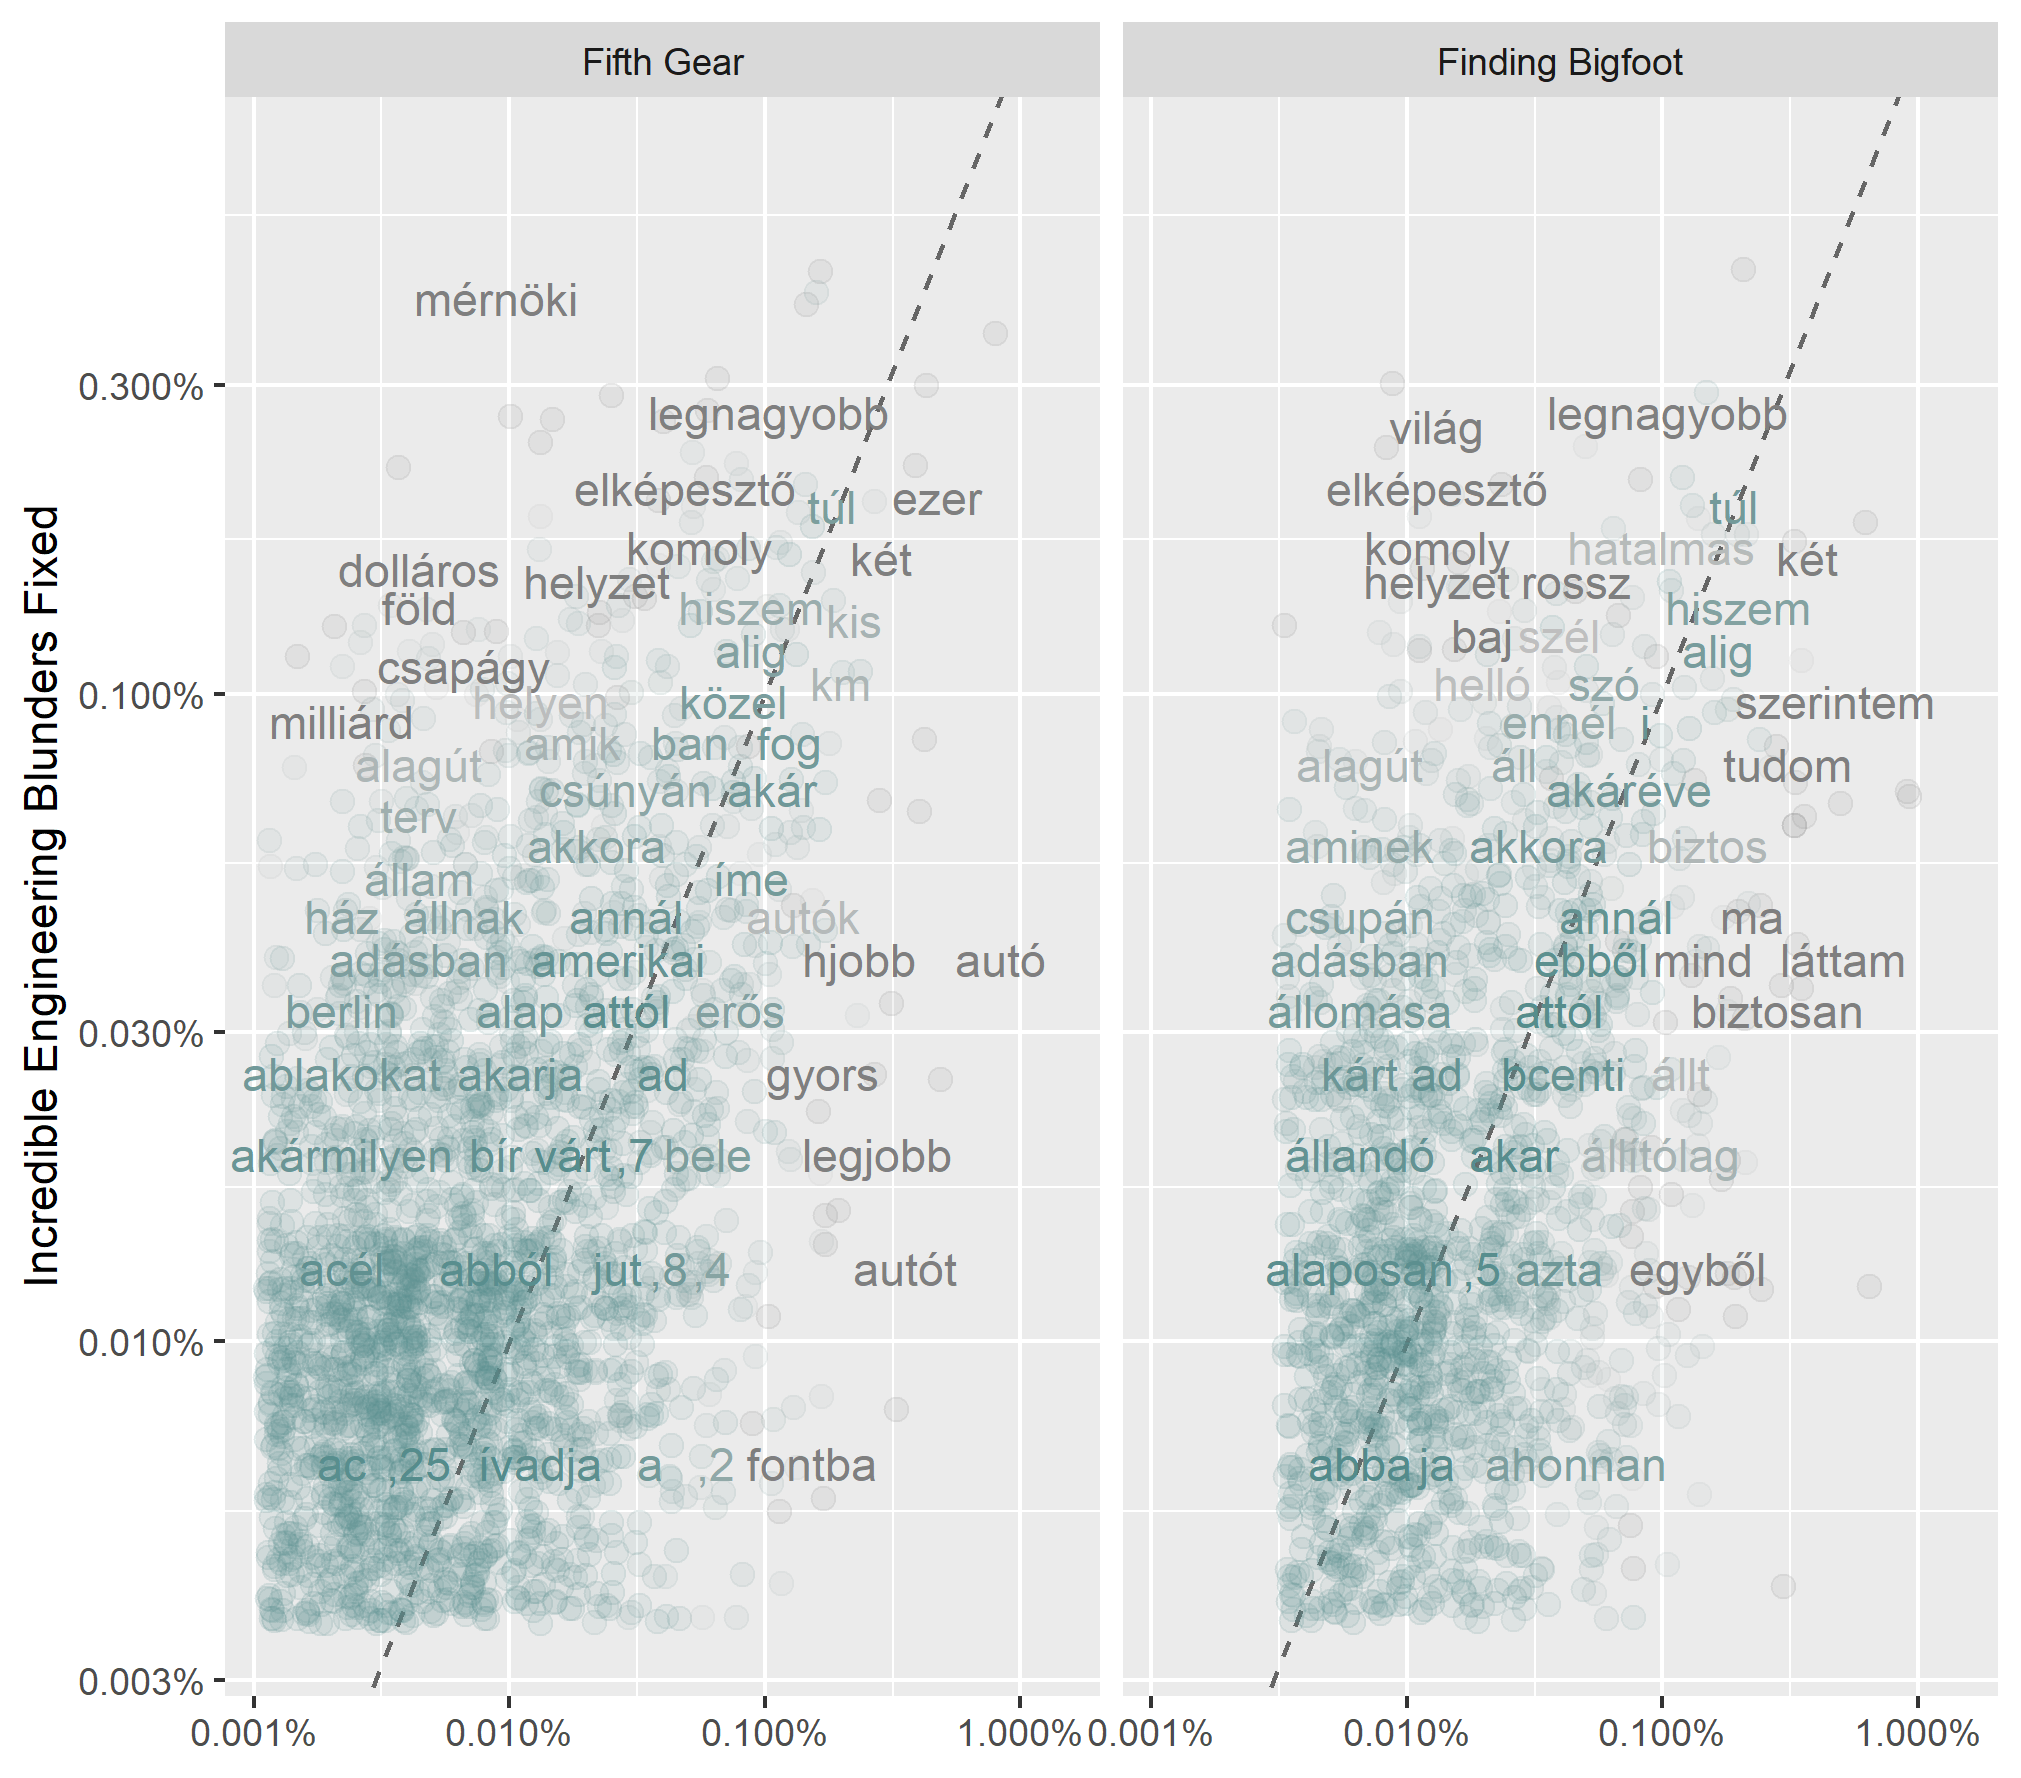
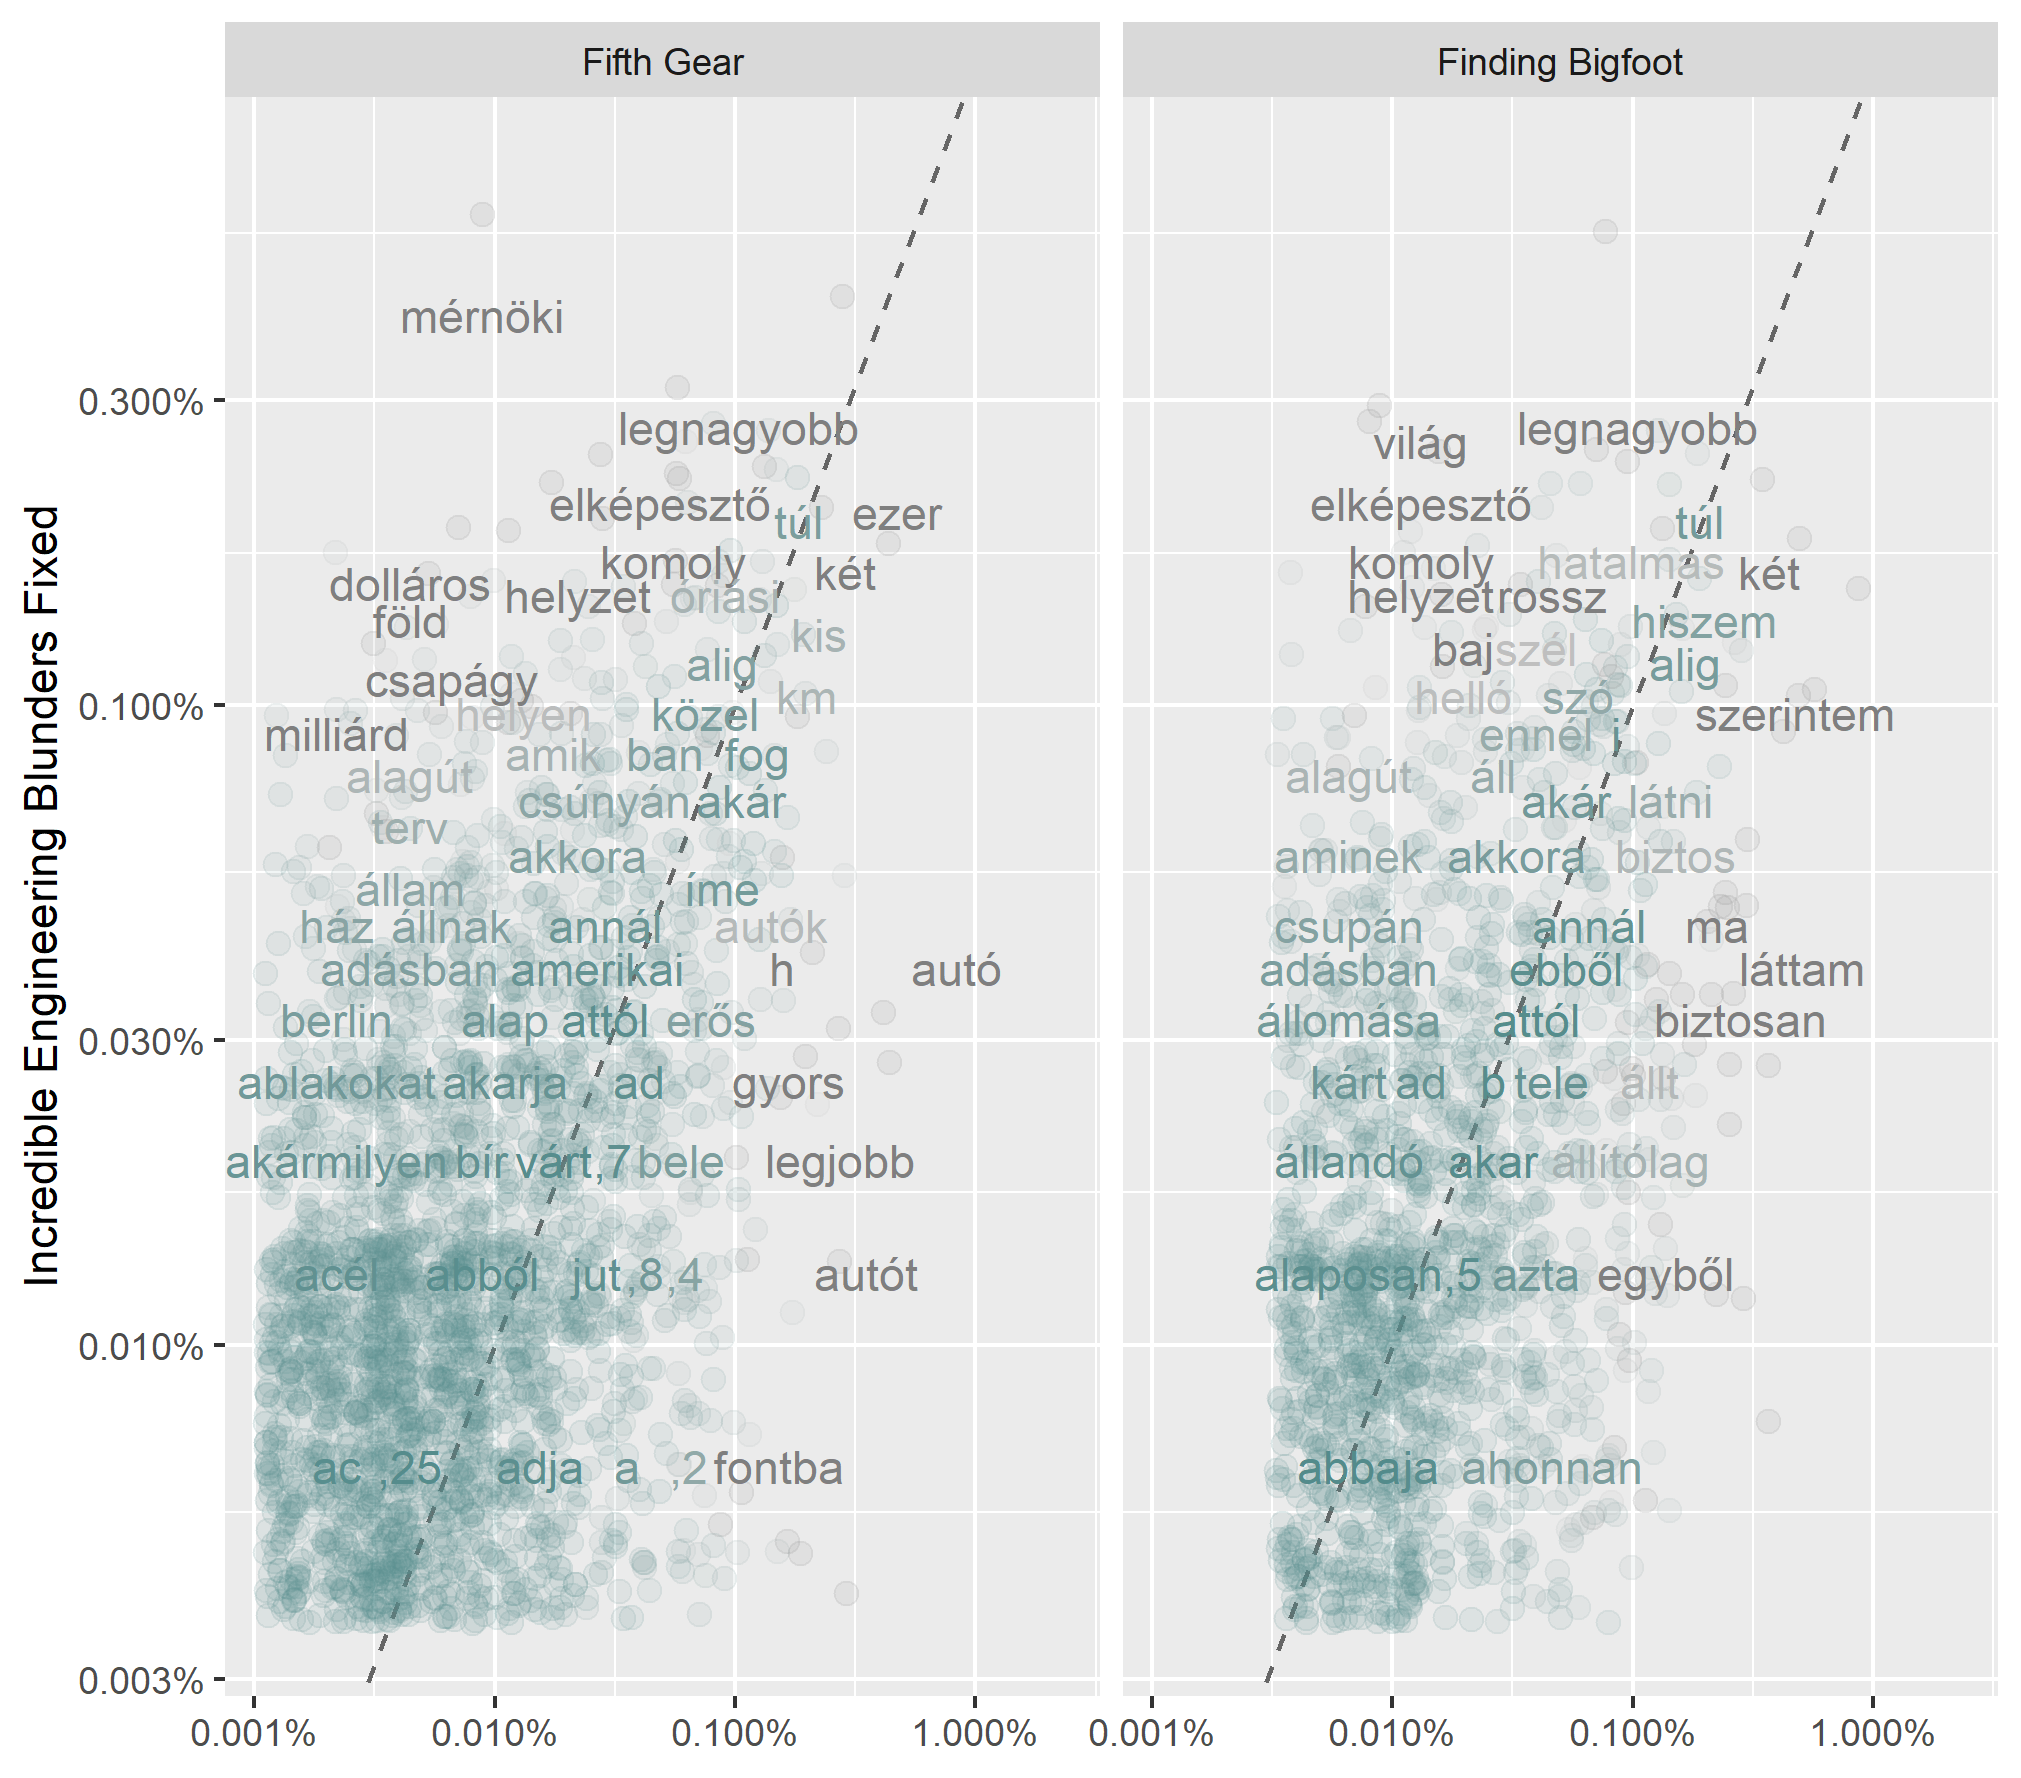
Added R code and documentation.

diff --git a/README.md b/README.md
@@ -24,13 +24,13 @@ Between August 2014 and February 2016 I worked for Mafilm Audio as an audiovisua
 
 I had written exactly 100 scripts, all with the same format - timestamp, character and text within several tables per script. For this excercise, I ended up using 52 scripts from 7 TV shows with different topics:
 
-- **Backroad Bounty** - Two guys looking for treasure in other people's junk, bidding on various items.
-- **Ed Stafford Into the Unknown** - Ed Stafford wandering around the globe, looking for mysterious places and adventures.
-- **Fifth Gear** - Your tipical motor magazine with car tests.
-- **Finding Bigfoot** - A team in search of the mysterious creature called Bigfoot.
-- **Fire in the Hole** - An explosives expert... blowing stuff up.
-- **Incredible Engineering Blunders Fixed** - Looking for engineering "miracles" in the worst possible sense of the word.
-- **Misfit Garage** - Pimp My Ride style garage with lots of rivalry.
+- **Backroad Bounty:** Two guys looking for treasure in other people's junk, bidding on various items.
+- **Ed Stafford Into the Unknown:** Ed Stafford wandering around the globe, looking for mysterious places and adventures.
+- **Fifth Gear:** Your tipical motor magazine with car tests.
+- **Finding Bigfoot:** A team in search of the mysterious creature called Bigfoot.
+- **Fire in the Hole:** An explosives expert... blowing stuff up.
+- **Incredible Engineering Blunders Fixed:** Looking for engineering "miracles" in the worst possible sense of the word.
+- **Misfit Garage:** Pimp My Ride style garage with lots of rivalry.
 
 ## About the package
 
@@ -57,8 +57,8 @@ The package loads all the scripts in their original format with the help of the 
   hu_stopwords <- bind_rows(
     get_stopwords("hu"),
     tibble(
-      word = c("is", "ha", "as", "es", "le", "t", "a", "á", "én", "te", "ő", "mi", "ti", "ők", "engem", "téged", "őt", "minket", "titeket",
-               "őket", "oké", "szóval", "se"),
+      word = c("is", "ha", "as", "es", "le", "t", "a", "á", "én", "te", "ő", "mi", "ti", "ők", "engem", 
+               "téged", "őt", "minket", "titeket", "őket", "oké", "szóval", "se"),
       lexicon = c("custom")
     )
   )
@@ -72,11 +72,83 @@ I started with a simple term frequency for each of the shows to see if it approx
 
 ![alt text](assets/term-frequency-per-show.png "Term Frequency per Show")
 
+- Backroad Bounty has words such as "dollárt" (*dollar*), "régi" (*old*) and "találtam" (*I found*), which suggests that it has something to do with antics.
+- In case of Into the Unknown, other than Amazonas, nothing suggests what the show's about.
+- Fifth Gear has "autó"/"autót" (*car*), and the same goes for Misfit Garage, so we can have some basic idea that it's something about cars.
+- The other three shows hit really close to home:
+  - For Finding Bigfoot, three versions of "nagyláb" (*Bigfoot*) appear among the most frequent terms, as well as terms refering to the show's supernatural (and highly fictive) nature: "láttam" (*I saw*), "hallottam" (*I heard*) and "valamit" (*something*).
+  - Fire in the Hole is all about explosions, and we have the word for explosion and explosives among the top terms.
+  - Last but not least, Incredible Engineering Blunders Fixed seems to be related to "mérnöki" (*of engineers*), "mérnökök" (*engineers*) and "épület" (*building*).
+  
+Okay, it seems like this could potentially help our lazy intern, but what happens when it comes to episodes of a certain show? Let's look at the first four episodes of Fifth Gear! :car:
+
+![alt text](assets/term-frequency-first-episodes-of-fifth-gear.png "Term Frequency for the first episodes of Fifth Gear")
+
+This seems to help to at least identify what cars appear in an episode.
+
+The first episode seems to have a Range Rover, an Audi and a BMW (all true). In the second episode, the hosts are testing a Megane, a Mazda, a Jaguar and a Toyota and the episode seems to be focused on hatchbacks ("hátsókerék"/"hátsókerekes"). In the third one, next to a McLaren and a Gold, there appears to be some kind of accident as well, judging by the words "ütközés" (collusion) and "sérülés" (injury). And in the fourth episode, we have the Aston Martin Vanquish which is most likely fast ("gyors") and the newest ("legújabb") and the best ("legjobb").
+
+With just a few lines of code, we probably made the intern's life a lot easier. :smile:
+
 ### Relative term frequency
+
+Let's look at how similar my vocabulary was in case of Fifth Gear, Finding Bigfoot and Incredible Engineering Blunders Fixed.
+
+![alt text](assets/relative-term-frequency.png "Relative term frequency")
+
+Although I re-used the same words lots of times, there's a clear distinction when it comes to topics, as it can be seen on the chart above. In terms of Fifth Gear and IEBF, I used words such as "mérnöki" (*of engineers*), "legnagyobb" (*greatest*) and "elképesztő" (*amazing*) to describe engineering, while I obviously mostly used the word "autó" (*car*) for the show about cars. And hearsay seems to dominate for Finding Bigfoot with "biztosan" (*certainly*) and "láttam" (*I saw*).
 
 ### Tf-idf
 
+The term distribution for all shows shows a typical long-tailed distribution - many words occur frequently, and only a few rarely.
+
+![alt text](assets/term-distribution.png "Term distribution")
+
+Let's look at term and document frequency for all shows.
+
+![alt text](assets/tf-idf.png "Term and document frequency")
+
+Now this gives a lot better picture of what the shows are about than our initial analysis, and it could be a lot safer to rely on this when writing summaries.
+
+- **Backroad Bounty:** "bam" is the name of one of the characters (Bam Bam), but other than that we can see references to price ("dollárt", "dollárért"), that something is for sale ("eladó") and that the show is also about junk ("kacatok") and treasures ("kincs").
+- **Ed Stafford Into the Unknown:** The words speak for themselves - Amazonas, jungle ("dzsungel"), desert ("sivatag"), aboriginal ("bennszülött").
+- **Fifth Gear:** A lot of cars (Audi, BMW, Gold, Porsche, AMG, Renault) and the word "verseny" (*race*) let us have a pretty good understanding about the topic.
+- **Finding Bigfoot:** Five appearances of some form of the word Bigfoot ("nagyláb*").
+- **Fire in the Hole:** Four mentions of something explosion related ("robbantás", "robbanószert", "robbanószer", "dobbantunk") and some jargon.
+- **IEBF:** In addition to engineering related words we can also get some idea about where those blunders occurr: "torony" (*tower*) or "repülőtér" (*airport*) for example.
+- **Misfit Garage:** There are some car types, but there also seems to be a lot of mentioning of Gas Monkey, the rivaling garage.
+
 ## Sentiment analysis
+
+The [Hungarian Sentiment Lexicon](http://opendata.hu/dataset/hungarian-sentiment-lexicon) from Szabó (2014) contains 7688 words altogether (1748 positive and 5940 negative), which isn't a huge number, but it is still a great collection that can be used to perform some analysis.
+
+Let's look at the sentiment for all shows.
+
+![alt text](assets/sentiments-in-all-shows.png "Sentiments in all shows")
+
+Fire in the Hole and IEBF appear to tend towards the negative, as one is all about dangerous explosions, and the other's about engineering solutions gone wrong, this is sort of what we would expect. Ed Stafford wanders into the unknown which isn't without its risk, but all other shows seem to be positive in general, although at this point we have absolutely no idea why, or even if this assumption is correct.
+
+Let's look at an example. Can we see how the tests generally went throughout the season by the sentiments of Fifth Gear?
+
+![alt text](assets/fifth-gear-sentiments.png "Fifth Gear sentiments")
+
+This suggests an overall positive attitude all through the season, but unfortunately there are some shortcomings:
+
+- The word "fontos" (*important*) contributes the most to the positive sentiment, however throughout the text it's used more as neutral than positive.
+- "Fél" in itself is negative, but it can have two meanings: "half" or "to be afraid". Big difference.
+- While most of the words fall into the right bucket, almost all could possibly gain different meaning if we were to look at bigrams. Just one example: "tetszik" means that I like it, while "nem tetszik" would mean that I don't like it.
+- "Felfüggesztés" is negative in the sense that it means "suspension", however, since Fifth Gear is a car show, here we're talking about the spare part.
+
+Could sentiment analysis help to predict the outcome of the tests?
+
+![alt text](assets/fifth-gear-episode-sentiments.png "Fifth Gear episode sentiments")
+
+Well, somewhat. It's not a huge problem for the intern, because you wouldn't want to spoil the ending, but from an analysis point of view, it's not very deterministic.
+
+- **First episode:** "Tetszik" (I like it) and "luxus" (*luxury*) are on the top of the list, but so is "rossz" (*bad*) and "zavaró" (*disturbing*). Overall the positives seem to outweigh the negatives, but who can confidently say?
+- **Second episode:** "Tetszik" and "bad" are the most dominant, same as above, but we can also observe words such as "baj" (problem). This seemingly trends toward the negative.
+- **Third episode:** Mixed signals again, although "ütközés" (*collusion*) and "sérülés" (*injury*) are outstanding with regards to their contribution to the sentiment. Amongst the positives, we can see "csodálatos" (*wonderful*), "remek" (*great*), "zseniális" (*brilliant*). The episode does have car crash scenes, but it's all part of a safety endurance test which ends on a positive note. So close, yet so far.
+- **Fourth episode:** The last episode in our scope is the only one where we can confidently say that it's positive. The only negative word is "fél", which as I mentioned earlier, can mean both "half" and "to be afraid".
 
 ## Summary
 
